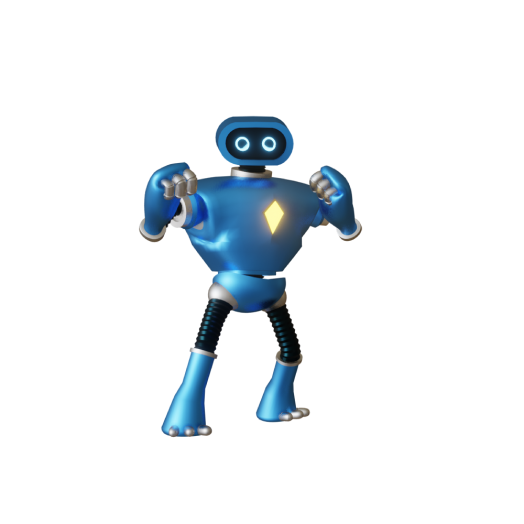
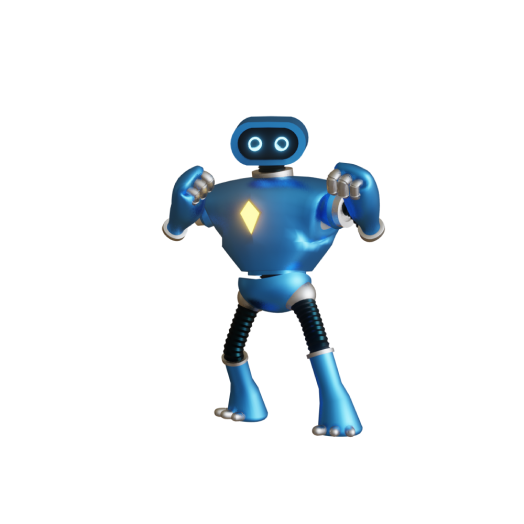
added bots to module overview

Changed region(s): [[0.2443, 0.2137, 0.7328, 0.855]]

diff --git a/src/templates/overview.js b/src/templates/overview.js
@@ -46,6 +46,13 @@ export const query = graphql`
         slug
         next
         title
+        img {
+          childImageSharp {
+            fluid(maxWidth: 800) {
+              ...GatsbyImageSharpFluid
+            }
+          }
+        }
       }
       body
     }
@@ -97,9 +104,12 @@ function LessonsOverview({ data: { mdx: module } }) {
         </header>
         <main
           className={`mt-24 mr-36 grid text-white`}
-          style={{ gridTemplateColumns: '1fr 2fr' }}
+          style={{ gridTemplateColumns: '2fr 3fr' }}
         >
-          <div className={`bg-base-700 rounded-tr-2xl rounded-br-2xl`}></div>
+          <div className={`bg-base-700 rounded-tr-2xl rounded-br-2xl flex justify-items-center`}>
+            {' '}
+            <img src={module.frontmatter.img.childImageSharp.fluid.src}/>
+          </div>
           <div className={`pl-6 py-8`}>
             <h3 className={`text-4xl font-black`}>Chapters</h3>
             <ul className={`mt-8 space-y-6`}>
